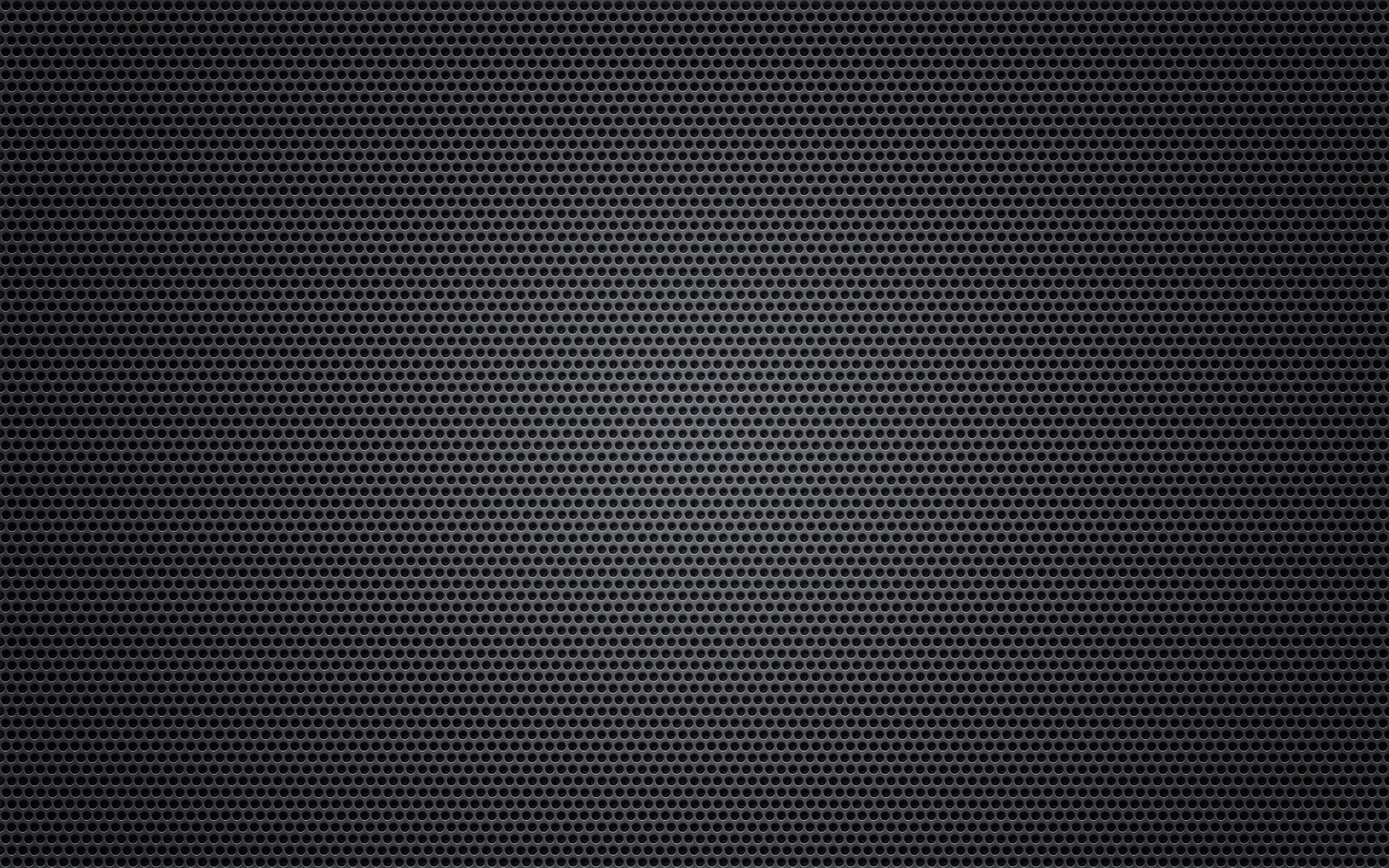
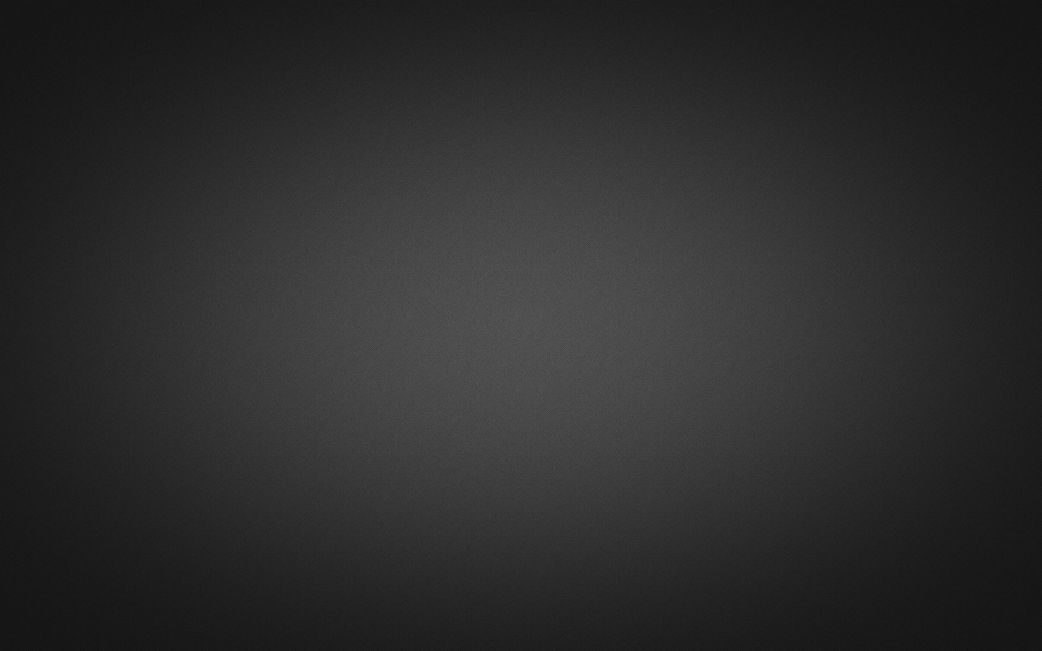
Design improvement

diff --git a/src/components/Game.js b/src/components/Game.js
@@ -1,32 +1,35 @@
 import React, { useState, useEffect } from "react";
 import Board from "./Board";
-import Cell from "./Cell";
 import Header from "./Header";
+import Score from "./Score";
 
 const Game = (props) => {
   const [gameOver, setGameOver] = useState(false);
   const [whiteScore, setWhiteScore] = useState(2);
   const [blackScore, setBlackScore] = useState(2);
   useEffect(() => {
-    console.log('useeffect');
+    console.log("useeffect");
     console.log(props.currentPlayer, props.playerMode);
-    if(getMaxCount(props.boardState, "B")===0 && getMaxCount(props.boardState, "W")===0)
-    {
+    if (
+      getMaxCount(props.boardState, "B") === 0 &&
+      getMaxCount(props.boardState, "W") === 0
+    ) {
       setGameOver(true);
     }
 
-    if(props.playerMode === "single" && props.currentPlayer === "B") {
+    if (props.playerMode === "single" && props.currentPlayer === "B") {
       if (getMaxCount(props.boardState, props.currentPlayer) > 0) {
-        computerMove();
+        setTimeout(computerMove(), 50000);
         setGameOver(isGameOver(props.boardState));
         countScore(props.boardState);
       }
       props.currentPlayer === "B"
-          ? props.setCurrentPlayer("W")
-          : props.setCurrentPlayer("B");
+        ? props.setCurrentPlayer("W")
+        : props.setCurrentPlayer("B");
     }
   }, [props.currentPlayer]);
   const handleClick = (x, y) => {
+    playSound();
     const count = isValidMove(x, y, props.currentPlayer);
     if (count > 0) {
       console.log("Count>0" + x + "," + y + "," + props.currentPlayer);
@@ -38,14 +41,13 @@ const Game = (props) => {
         : props.setCurrentPlayer("B");
       // console.log(currentPlayer);
       // setCurrentPlayer("B");
-
     }
-    const cnt=getMaxCount(props.boardState,props.currentPlayer);
-    console.log('max count : ',cnt);
-    if(getMaxCount(props.boardState,props.currentPlayer)==0){
+    const cnt = getMaxCount(props.boardState, props.currentPlayer);
+    console.log("max count : ", cnt);
+    if (getMaxCount(props.boardState, props.currentPlayer) == 0) {
       props.currentPlayer === "B"
-          ? props.setCurrentPlayer("W")
-          : props.setCurrentPlayer("B");
+        ? props.setCurrentPlayer("W")
+        : props.setCurrentPlayer("B");
     }
     // setTimeout(console.log(currentPlayer), 2000);
 
@@ -56,43 +58,45 @@ const Game = (props) => {
     //   currentPlayer === "B" ? setCurrentPlayer("W") : setCurrentPlayer("B");
     // }
   };
-
-  const getMaxCount = (boardState,c) => {
-    let maxCount=0;
+  const playSound = () => {
+    new Audio("common/Stapler-sound.mp3").play();
+  };
+  const getMaxCount = (boardState, c) => {
+    let maxCount = 0;
     for (let i = 0; i < 8; i++) {
       for (let j = 0; j < 8; j++) {
         let count = isValidMove(i, j, c);
         if (count > maxCount) {
           maxCount = count;
-          console.log('x :',i,'j:',j);
+          console.log("x :", i, "j:", j);
         }
       }
     }
     return maxCount;
   };
-    const computerMove = () => {
-      console.log("INSIDE COMPUTER MOVE");
-      let maxCount = 0;
-      let xForMaxCount = 0;
-      let yForMaxCount = 0;
-      for (let i = 0; i < 8; i++) {
-        for (let j = 0; j < 8; j++) {
-          let count = isValidMove(i, j, "B");
-          if (count > maxCount) {
-            maxCount = count;
-            xForMaxCount = i;
-            yForMaxCount = j;
-          }
+  const computerMove = () => {
+    console.log("INSIDE COMPUTER MOVE");
+    let maxCount = 0;
+    let xForMaxCount = 0;
+    let yForMaxCount = 0;
+    for (let i = 0; i < 8; i++) {
+      for (let j = 0; j < 8; j++) {
+        let count = isValidMove(i, j, "B");
+        if (count > maxCount) {
+          maxCount = count;
+          xForMaxCount = i;
+          yForMaxCount = j;
         }
       }
-      if (maxCount > 0) playGame(props.boardState, xForMaxCount, yForMaxCount, "B");
-    };
+    }
+    if (maxCount > 0)
+      playGame(props.boardState, xForMaxCount, yForMaxCount, "B");
+  };
 
   const isValidMove = (x, y, i) => {
     // console.log("INSIDE VALIDMOVE");
     let count = 0;
-    if (props.boardState[x][y] !== "O")
-      return count;
+    if (props.boardState[x][y] !== "O") return count;
     count += checkTop(props.boardState, x, y, i);
     // console.log("top:", count);
     count += checkRight(props.boardState, x, y, i);
@@ -480,6 +484,9 @@ const Game = (props) => {
     ]);
     props.setCurrentPlayer("W");
     props.setPlayerMode("single");
+    setWhiteScore(2);
+    setBlackScore(2);
+    setGameOver(false);
   };
 
   const isGameOver = (boardState) => {
@@ -511,12 +518,14 @@ const Game = (props) => {
       <Header
         currentPlayer={props.currentPlayer}
         setPlayerMode={props.setPlayerMode}
+        playerMode={props.playerMode}
         resetGame={resetGame}
         gameOver={gameOver}
         whiteScore={whiteScore}
         blackScore={blackScore}
       />
       <Board boardState={props.boardState} handleClick={handleClick} />
+      <Score whiteScore={whiteScore} blackScore={blackScore} />
       <div id="text"></div>
     </div>
   );

diff --git a/src/components/Header.js b/src/components/Header.js
@@ -1,40 +1,58 @@
 import React from "react";
 
-const Header = (props) => (
-  <div className="header">
-    <h1>BINARY WORLD</h1>
-    <h3>
-      Current Player:
+const Header = (props) => {
+  console.log(props.gameOver);
+  return (
+    <div className="header">
+      <h1>BINARY WORLD</h1>
+      <h2>
+        {props.gameOver === true
+          ? props.whiteScore > props.blackScore
+            ? "White Win"
+            : props.blackScore > props.whiteScore
+            ? "Black Win"
+            : "Tie Game"
+          : null}
+      </h2>
       <button
+        onClick={() => props.setPlayerMode("single")}
         className={
-          "currentPlayer " +
-          (props.currentPlayer === "W" ? "whiteBox" : "blackBox")
+          "playerMode " + (props.playerMode === "single" ? "selected" : "")
         }
-      />
-    </h3>
-    <h3>
-      <button className="currentPlayer whiteBox" />
-      {props.whiteScore}
-      <button className="currentPlayer blackBox" />
-      {props.blackScore}
-    </h3>
-    <h2>
-      {props.gameOver === true
-        ? props.whiteScore > props.blackScore
-          ? "White Win"
-          : props.blackScore > props.whiteScore
-          ? "Black Win"
-          : "Tie Game"
-        : null}
-    </h2>
-    <button onClick={() => props.setPlayerMode("single")}>Single Player</button>
-    <button onClick={() => props.setPlayerMode("double")}>Double Player</button>
-    <br />
-
-    <button type="button" onClick={() => props.resetGame()}>
-      RESTART
-    </button>
-  </div>
-);
+        disabled={
+          props.gameOver || props.whiteScore !== 2 || props.blackScore !== 2
+        }
+      >
+        Single Player
+      </button>{" "}
+      <button
+        onClick={() => props.setPlayerMode("double")}
+        className={
+          "playerMode " + (props.playerMode === "double" ? "selected" : "")
+        }
+        disabled={
+          props.gameOver || props.whiteScore !== 2 || props.blackScore !== 2
+        }
+      >
+        Double Player
+      </button>
+      <br />
+      <br></br>
+      <button className="restartBtn" onClick={() => props.resetGame()}>
+        RESTART
+      </button>
+      <br></br>
+      <h3>
+        Current Player:
+        <button
+          className={
+            "currentPlayer " +
+            (props.currentPlayer === "W" ? "whiteBox" : "blackBox")
+          }
+        />
+      </h3>
+    </div>
+  );
+};
 
 export default Header;

diff --git a/src/index.css b/src/index.css
@@ -2,7 +2,7 @@ body {
   margin: 0;
 
   font-family: 'Press Start 2P', cursive;
-  background-image: url('common/images/background1.jpg');
+  background-image: url('common/images/background2.jpg');
   background-size: cover;
 }
 
@@ -13,6 +13,7 @@ body button{
 table {
   border-collapse: separate;
   background-color: #444;
+  box-shadow: 0px 0px 10px 2px black;
 }
 table, tr, td {
   margin: 0px;
@@ -20,14 +21,15 @@ table, tr, td {
   border-spacing: 0px;
 }
 td {
-  border: solid 1px #444;
-  background-color: #c4ac90;
+  border: solid 1px #000;
+  background-color: #444;
   text-align: center;
+  box-shadow: 0px 0px 10px dimgrey inset;
 }
 td button {
   width: 4vw;
   height: 4vw;
-  background-color: #c4ac90;
+  background-color: #444;
   
   border: none;
   margin: 4px;
@@ -43,23 +45,67 @@ td button {
  
 .whiteBox{
   background-color: #fff;
+  animation: pulseWhite 2s;
 }
+
+@keyframes pulseWhite{
+  0%{
+    background-color: #444;
+  }
+  100%{
+    background-color: #fff;
+  }
+}
+
 .blackBox{
   background-color: #000;
+  animation: pulseBlack 2s;
+}
+
+@keyframes pulseBlack{
+  0%{
+    background-color: #444;
+  }
+  100%{
+    background-color: #000;
+  }
 }
 
 .box{
   display: flex;
   justify-content: center;
   flex-direction: column;
+  align-items: center;
 }
 
-.box table, .box .header{
+.box table, .box .header, .box .header h3{
   align-self: center;
+  text-align: center;
 }
 
 .currentPlayer{
   height: 30px;
   width: 30px;
   border: solid 1px black;
+}
+
+.playerMode{
+  background-color: #444;
+  border: solid 2px black;
+  padding: 10px;
+  cursor: pointer;
+}
+
+.selected{
+  border: solid 4px #fff;
+  box-shadow: 0px 0px 10px 3px black;
+  color:#fff;
+}
+
+.restartBtn{
+  background-color: black;
+  border: solid 2px #444;
+  padding: 10px;
+  cursor: pointer;
+  color:#fff
 }

diff --git a/src/components/Cell.js b/src/components/Cell.js
@@ -2,7 +2,7 @@ import React from "react";
 
 const Cell = (props) => {
   return (
-    <td id="cell_0_0" onClick={() => props.handleClick(props.i, props.j)}>
+    <td onClick={() => props.handleClick(props.i, props.j)}>
       {/* {props.i}
       {props.j} */}
       <button

diff --git a/src/components/Score.js b/src/components/Score.js
@@ -1,0 +1,10 @@
+import React from "react";
+
+const Score = (props) => (
+  <h3>
+    <button className="currentPlayer whiteBox" /> {props.whiteScore}{" "}
+    <button className="currentPlayer blackBox" /> {props.blackScore}
+  </h3>
+);
+
+export default Score;
